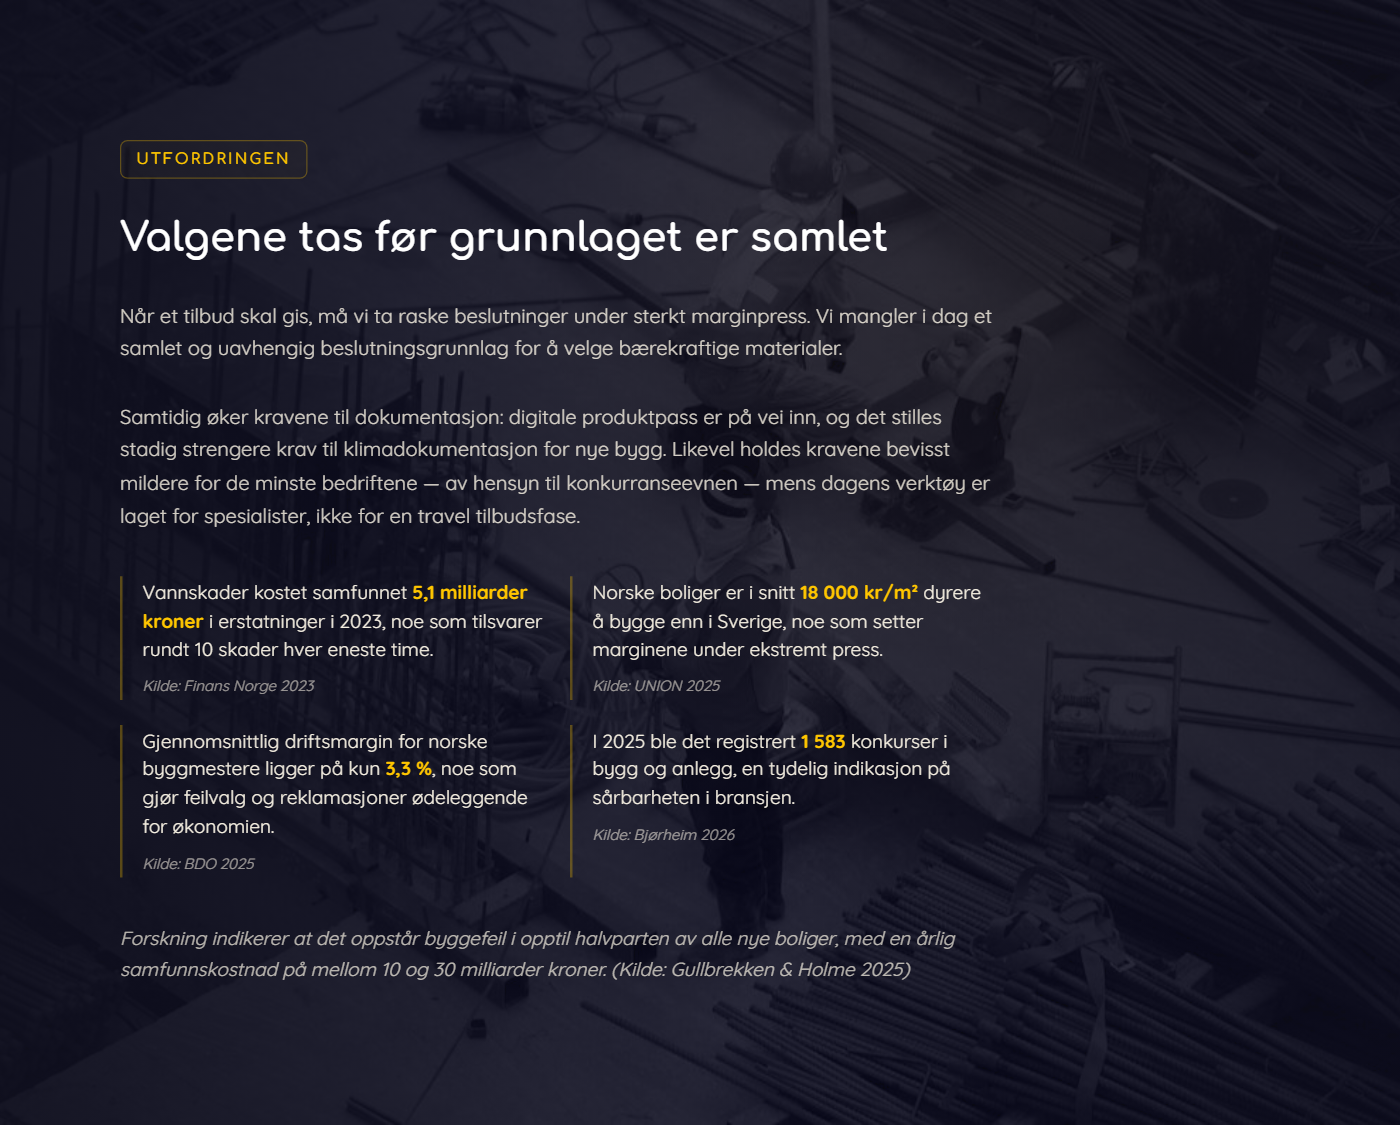
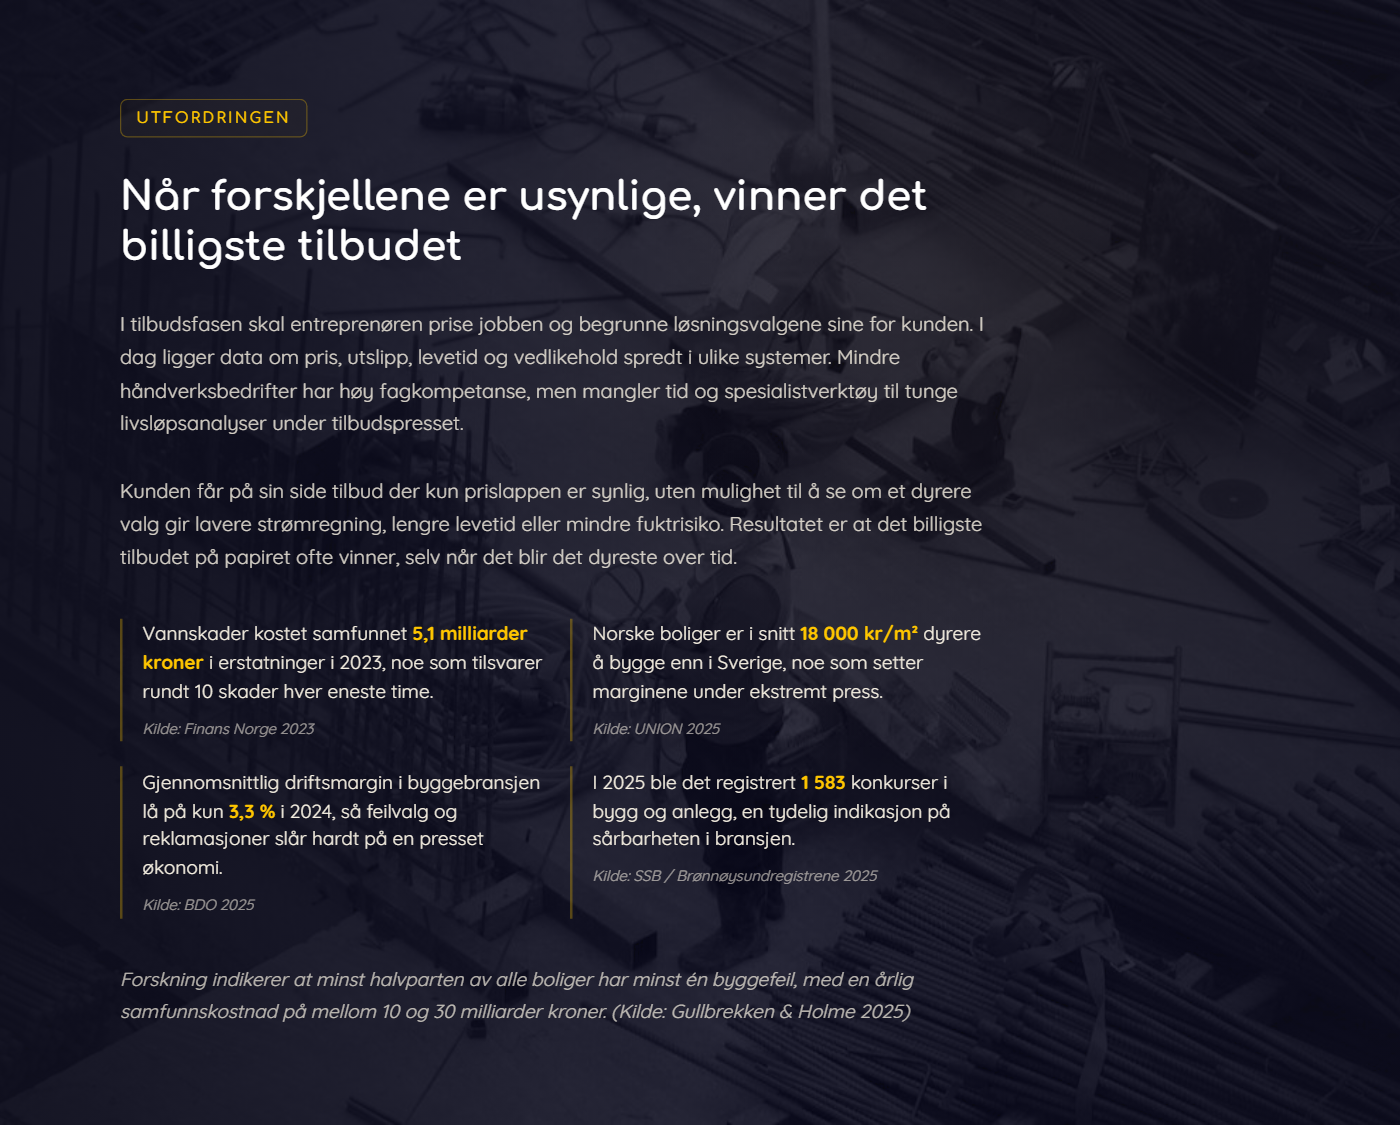
feat(nettside): v1.0-tekst, UX-forbedringer og nye bakgrunnsbilder

Changed region(s): [[0.0921, 0.28, 0.7064, 0.9022], [0.0614, 0.0933, 0.6757, 0.2489]]

diff --git a/site/mockup/index.html b/site/mockup/index.html
@@ -1,11 +1,11 @@
 <!doctype html>
-<html lang="no">
+<html lang="nb">
 
 <head>
   <meta charset="utf-8">
   <meta name="viewport" content="width=device-width, initial-scale=1">
   <title>VERIFIED — Forskningsprosjekt</title>
-  <meta name="description" content="VERIFIED utvikler en uavhengig beslutningsmodell for tilbudsfasen i små og mellomstore byggeprosjekter.">
+  <meta name="description" content="VERIFIED er et forskningsprosjekt som undersøker om pris, klima, levetid og kvalitet kan samles i én forklarbar score for tilbudsfasen.">
 
   <!-- Open Graph / lenke-forhåndsvisning -->
   <meta property="og:type" content="website">
@@ -13,11 +13,11 @@
   <meta property="og:site_name" content="VERIFIED">
   <meta property="og:url" content="https://ipn-verified.vercel.app/">
   <meta property="og:title" content="VERIFIED — Her er hva vi vet. Her er hva vi skal finne ut.">
-  <meta property="og:description" content="Et forskningsprosjekt (IPN) som utvikler en uavhengig beslutningsmodell for tilbudsfasen i små og mellomstore byggeprosjekter.">
+  <meta property="og:description" content="Forskningsprosjekt som undersøker om pris, klima, levetid og kvalitet kan samles i én forklarbar score — slik at entreprenør og kunde ser hva de velger i tilbudsfasen.">
   <meta property="og:image" content="https://ipn-verified.vercel.app/team-kapitaldag-lister.jpg">
   <meta name="twitter:card" content="summary_large_image">
   <meta name="twitter:title" content="VERIFIED — Her er hva vi vet. Her er hva vi skal finne ut.">
-  <meta name="twitter:description" content="Et forskningsprosjekt (IPN) som utvikler en uavhengig beslutningsmodell for tilbudsfasen i byggeprosjekter.">
+  <meta name="twitter:description" content="Forskningsprosjekt som gir entreprenør og kunde et bedre grunnlag i tilbudsfasen.">
   <meta name="twitter:image" content="https://ipn-verified.vercel.app/team-kapitaldag-lister.jpg">
 
   <!-- Import Comfortaa (headings) and Quicksand (body text fallback for Hiruko) from Google Fonts -->
@@ -52,7 +52,7 @@
       <button class="menu-close-btn" type="button" aria-label="Lukk meny" id="menu-close-btn">&times;</button>
     </div>
 
-    <nav class="menu-navigation">
+    <nav class="menu-navigation" aria-label="Seksjonsoversikt">
       <!-- Section Nav linked to the 7 sections -->
       <ul class="section-nav">
         <li><a href="#sec-intro" class="nav-link active">Intro</a></li>
@@ -94,8 +94,8 @@
   <!-- Main Scroll Container -->
   <main id="main" class="main-container">
     
-    <!-- Section 1: Hero / Intro (Image: kandidat-1.jpg - betong/kran) -->
-    <section id="sec-intro" class="story-section" style="background-image: url('kandidater/kandidat-1.jpg');">
+    <!-- Section 1: Hero / Intro (Image: referanse 1) -->
+    <section id="sec-intro" class="story-section" style="background-image: url('kandidater/kandidat-1.png');">
       <div class="story-section__readability-overlay"></div>
       
       <div class="hero-content">
@@ -103,6 +103,8 @@
         <!-- Exact Hero title -->
         <h1 class="hero-title">Her er hva vi vet.<br>Her er hva vi skal finne ut.</h1>
         <div class="hero-underline"></div>
+        <!-- Undertittel: gir evaluatoren kontekst i løpet av 5 sekunder -->
+        <p class="hero-tagline">Et forskningsprosjekt for beslutningsstøtte i tilbudsfasen</p>
         <!-- Exact Hero subline -->
         <p class="hero-subtitle">
           VERIFIED er et forskningsprosjekt som skal utvikle en uavhengig beslutningsmodell for tilbudsfasen i små og mellomstore byggeprosjekter. Prosjektet undersøker om én forklarbar score kan samle pris, klimadata, levetid og kvalitet — slik at entreprenør og kunde ser hva de faktisk velger før tilbudet prissettes.
@@ -114,8 +116,8 @@
       </div>
     </section>
 
-    <!-- Section 2: Utfordringen (Image: kandidat-2.jpg - gul tårnkran) -->
-    <section id="sec-challenge" class="story-section" style="background-image: url('kandidater/kandidat-2.jpg');">
+    <!-- Section 2: Utfordringen (Image: referanse 2) -->
+    <section id="sec-challenge" class="story-section" style="background-image: url('kandidater/kandidat-2.png');">
       <div class="story-section__readability-overlay"></div>
       
       <div class="content-box">
@@ -165,8 +167,8 @@
       </div>
     </section>
 
-    <!-- Section 3: Hva vi vet i dag (Image: kandidat-3.jpg - ingeniør med nettbrett) -->
-    <section id="sec-what-we-know" class="story-section" style="background-image: url('kandidater/kandidat-3.jpg');">
+    <!-- Section 3: Hva vi vet i dag (Image: referanse 3) -->
+    <section id="sec-what-we-know" class="story-section" style="background-image: url('kandidater/kandidat-3.png');">
       <div class="story-section__readability-overlay"></div>
       
       <div class="content-box">
@@ -186,8 +188,8 @@
       </div>
     </section>
 
-    <!-- Section 4: Hva vi ikke vet (ennå) (Image: kandidat-4.jpg - stålkonstruksjon høyhus) -->
-    <section id="sec-what-we-dont-know" class="story-section" style="background-image: url('kandidater/kandidat-4.jpg');">
+    <!-- Section 4: Hva vi ikke vet (ennå) (Image: referanse 4) -->
+    <section id="sec-what-we-dont-know" class="story-section" style="background-image: url('kandidater/kandidat-4.png');">
       <div class="story-section__readability-overlay"></div>
       
       <div class="content-box">
@@ -214,8 +216,8 @@
       </div>
     </section>
 
-    <!-- Section 5: Hva VERIFIED skal finne ut (Image: kandidat-5.jpg - massivtre) -->
-    <section id="sec-what-verified-will-find-out" class="story-section" style="background-image: url('kandidater/kandidat-5.jpg');">
+    <!-- Section 5: Hva VERIFIED skal finne ut (Image: referanse 5) -->
+    <section id="sec-what-verified-will-find-out" class="story-section" style="background-image: url('kandidater/kandidat-5.png');">
       <div class="story-section__readability-overlay"></div>
       
       <div class="content-box">
@@ -270,13 +272,14 @@
         <div class="section-badge">Status nå</div>
         <h2 class="section-title">Veien videre</h2>
         <p class="section-paragraph">
-          Prosjektet har gjennomført innledende utredninger og kartlagt forskningsfronten. Vi arbeider nå med søknadsgrunnlaget og planlegger pilotprosjekter med entreprenører, finans- og forsikringsaktører og kommuner.
+          VERIFIED har kartlagt forskningsfronten og identifisert kunnskapsgapene som prosjektet skal tette. Søknadsprosessen pågår, og vi planlegger pilotprosjekter med entreprenører, finans- og forsikringsaktører og kommuner.
         </p>
         <p class="section-paragraph">
-          SINTEF starter det formelle arbeidet med primærverifisering av de vitenskapelige kildene og datagrunnlaget i <strong>midten av august 2026</strong>. Alle data og påstander på denne siden vil da løpende kvalitetssikres mot originale kilder for å sikre full gjennomsiktighet.
+          SINTEF starter kvalitetssikringen av det vitenskapelige grunnlaget i <strong>midten av august 2026</strong>. Alle data og påstander på denne siden vil da løpende kvalitetssikres mot originale kilder for å sikre full gjennomsiktighet.
         </p>
         
-        <div class="cta-area">
+        <div class="cta-area cta-area--multi">
+          <a href="mailto:kontakt@verified.no" class="cta-button cta-button--primary">Kontakt prosjektet</a>
           <a href="#sec-intro" class="cta-button">Tilbake til toppen</a>
         </div>
       </div>

diff --git a/site/mockup/mockup-styles.css b/site/mockup/mockup-styles.css
@@ -61,7 +61,7 @@ body {
   transition: var(--transition-soft);
 }
 
-.skip-link:focus {
+.skip-link:focus-visible {
   left: 0;
   outline: 3px solid var(--color-gold);
 }
@@ -363,6 +363,17 @@ body.menu-open .side-menu {
   border-radius: 2px;
 }
 
+/* Undertittel: gir evaluatoren kontekst i løpet av 5 sekunder */
+.hero-tagline {
+  font-family: var(--font-heading);
+  font-size: 1.1rem;
+  font-weight: 400;
+  color: rgba(246, 240, 226, 0.8);
+  letter-spacing: 0.02em;
+  max-width: 500px;
+  line-height: 1.5;
+}
+
 .hero-subtitle {
   font-size: 1.05rem;
   color: rgba(246, 240, 226, 0.9);
@@ -384,7 +395,7 @@ body.menu-open .side-menu {
   font-size: 0.75rem;
   text-transform: uppercase;
   letter-spacing: 0.15em;
-  color: rgba(246, 240, 226, 0.6); /* 60% opacity */
+  color: rgba(246, 240, 226, 0.72); /* 72% opacity — WCAG AA komfortabel */
   font-weight: 500;
 }
 
@@ -396,6 +407,13 @@ body.menu-open .side-menu {
 @keyframes scrollPulse {
   0%, 100% { transform: translateY(0); opacity: 0.5; }
   50% { transform: translateY(5px); opacity: 1; }
+}
+
+/* Respekter prefers-reduced-motion (WCAG 2.3.3): stopp kontinuerlig
+   scroll-pulse og myk scroll for brukere som ber om mindre bevegelse. */
+@media (prefers-reduced-motion: reduce) {
+  html { scroll-behavior: auto; }
+  .scroll-prompt { animation: none; }
 }
 
 /* 5. Section Elements & Content Layouts */
@@ -474,7 +492,7 @@ body.menu-open .side-menu {
 
 .fact-source {
   font-size: 0.75rem;
-  color: rgba(246, 240, 226, 0.6); /* 60% opacity (WCAG AA pass) */
+  color: rgba(246, 240, 226, 0.72); /* 72% opacity — WCAG AA komfortabel */
   font-style: italic;
 }
 
@@ -546,31 +564,6 @@ body.menu-open .side-menu {
   font-weight: 600;
 }
 
-/* Research Context Box (discreet highlight) */
-.research-context-box {
-  background: rgba(255, 198, 0, 0.03);
-  border-left: 3px solid var(--color-gold);
-  padding: 1.25rem;
-  border-radius: 0 12px 12px 0;
-}
-
-.context-box-tag {
-  font-family: var(--font-heading);
-  font-size: 0.75rem;
-  text-transform: uppercase;
-  letter-spacing: 0.1em;
-  color: var(--color-gold);
-  font-weight: 600;
-  display: block;
-  margin-bottom: 0.4rem;
-}
-
-.context-box-text {
-  font-size: 0.95rem;
-  color: rgba(246, 240, 226, 0.85);
-  line-height: 1.6;
-}
-
 /* CTA Area (Go to top button) */
 .cta-area {
   margin-top: 1rem;
@@ -594,6 +587,24 @@ body.menu-open .side-menu {
 .cta-button:hover {
   background: var(--color-gold);
   color: var(--color-bg-navy);
+}
+
+/* CTA Area: multi-button layout */
+.cta-area--multi {
+  display: flex;
+  flex-wrap: wrap;
+  gap: 0.75rem;
+}
+
+.cta-button--primary {
+  background: var(--color-gold);
+  color: var(--color-bg-navy);
+  border-color: var(--color-gold);
+}
+
+.cta-button--primary:hover {
+  background: transparent;
+  color: var(--color-gold);
 }
 
 @media (min-width: 1024px) {
